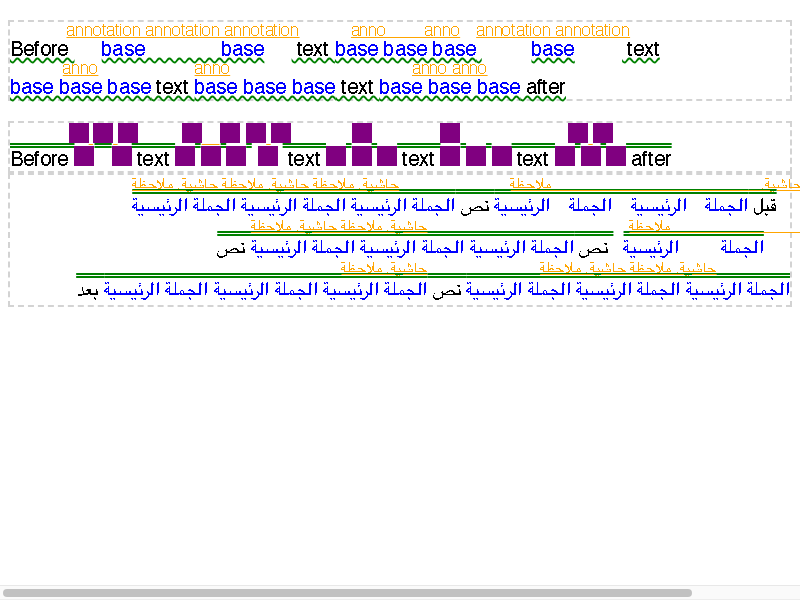
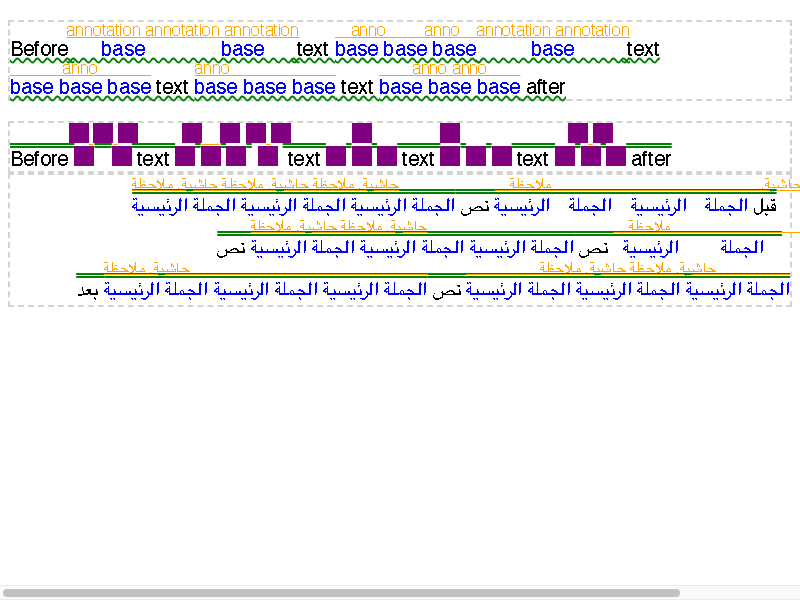
RubyLB: Apply ruby's insets to ShapeResult or margin if possible
We assumed kRubyLinePlaceholder items were always placed at both edges.
But it is not correct if bidi reorder is applied.  So we'd like to
apply insets to ShapeResults or atomic inline margins, and apply to
kRubyLinePlaceholder only for an empty line.

Note: Insets don't work correctly with bidi reorder yet.
ApplyLeadingAndTrailingExpansion() should work with LogicalLineItems
after bidi reorder.

Bug: 40896258, 324111880
Auto-Submit: Kent Tamura <tkent@chromium.org>
Commit-Queue: Koji Ishii <kojii@chromium.org>
Cr-Commit-Position: refs/heads/main@{#1292400}

diff --git a/renderer/core/layout/inline/justification_utils.cc b/renderer/core/layout/inline/justification_utils.cc
@@ -187,7 +187,13 @@ class ExpandableItemsFinder {
  public:
   void Find(InlineItemResults& results) {
     for (auto& item_result : results) {
-      if (item_result.item->Type() == InlineItem::kRubyLinePlaceholder) {
+      if (item_result.shape_result ||
+          item_result.item->Type() == InlineItem::kAtomicInline) {
+        last_item_ = &item_result;
+        if (!first_item_) {
+          first_item_ = &item_result;
+        }
+      } else if (item_result.item->Type() == InlineItem::kRubyLinePlaceholder) {
         last_placeholder_item_ = &item_result;
         if (!first_placeholder_item_) {
           first_placeholder_item_ = &item_result;
@@ -203,10 +209,18 @@ class ExpandableItemsFinder {
     }
   }
 
-  InlineItemResult* FirstExpandable() const { return first_placeholder_item_; }
-  InlineItemResult* LastExpandable() const { return last_placeholder_item_; }
+  InlineItemResult* FirstExpandable() const {
+    return first_item_ ? first_item_ : first_placeholder_item_;
+  }
+  InlineItemResult* LastExpandable() const {
+    return last_item_ ? last_item_ : last_placeholder_item_;
+  }
 
  private:
+  // The first or the last InlineItemResult which has a ShapeResult or is an
+  // atomic-inline.
+  InlineItemResult* first_item_ = nullptr;
+  InlineItemResult* last_item_ = nullptr;
   // The first or the last kRubyLinePlaceholder.
   InlineItemResult* first_placeholder_item_ = nullptr;
   InlineItemResult* last_placeholder_item_ = nullptr;
@@ -215,9 +229,23 @@ class ExpandableItemsFinder {
 void ApplyLeadingAndTrailingExpansion(LayoutUnit leading_expansion,
                                       LayoutUnit trailing_expansion,
                                       InlineItemResult& item_result) {
-  DCHECK_EQ(item_result.item->Type(), InlineItem::kRubyLinePlaceholder);
-  item_result.inline_size += leading_expansion + trailing_expansion;
-  item_result.spacing_before += leading_expansion;
+  if (item_result.shape_result) {
+    ShapeResult* shape_result = item_result.shape_result->CreateShapeResult();
+    shape_result->ApplyLeadingExpansion(leading_expansion);
+    shape_result->ApplyTrailingExpansion(trailing_expansion);
+    item_result.inline_size = shape_result->SnappedWidth();
+    if (UNLIKELY(item_result.is_hyphenated)) {
+      item_result.inline_size += item_result.hyphen.InlineSize();
+    }
+    item_result.shape_result = ShapeResultView::Create(shape_result);
+  } else if (item_result.item->Type() == InlineItem::kAtomicInline) {
+    item_result.inline_size += leading_expansion + trailing_expansion;
+    item_result.spacing_before += leading_expansion;
+  } else {
+    DCHECK_EQ(item_result.item->Type(), InlineItem::kRubyLinePlaceholder);
+    item_result.inline_size += leading_expansion + trailing_expansion;
+    item_result.spacing_before += leading_expansion;
+  }
 }
 
 std::optional<LayoutUnit> ApplyJustificationInternal(

diff --git a/renderer/platform/fonts/shaping/shape_result.cc b/renderer/platform/fonts/shaping/shape_result.cc
@@ -1013,6 +1013,64 @@ ShapeResult* ShapeResult::ApplySpacingToCopy(
   return result;
 }
 
+void ShapeResult::ApplyLeadingExpansion(float expansion) {
+  DCHECK(RuntimeEnabledFeatures::RubyLineBreakableEnabled());
+  if (expansion <= 0) {
+    return;
+  }
+  for (auto& run : runs_) {
+    if (!run) {
+      continue;
+    }
+    for (wtf_size_t i = 0; i < run->glyph_data_.size(); i++) {
+      HarfBuzzRunGlyphData& glyph_data = run->glyph_data_[i];
+
+      // Skip if it's not a grapheme cluster boundary.
+      if (i + 1 < run->glyph_data_.size() &&
+          glyph_data.character_index ==
+              run->glyph_data_[i + 1].character_index) {
+        continue;
+      }
+
+      glyph_data.advance += expansion;
+      run->width_ += expansion;
+      width_ += expansion;
+
+      if (run->IsHorizontal()) {
+        run->glyph_data_.AddOffsetWidthAt(i, expansion);
+      } else {
+        run->glyph_data_.AddOffsetHeightAt(i, expansion);
+        has_vertical_offsets_ = true;
+      }
+      return;
+    }
+  }
+  // No glyphs.
+  NOTREACHED();
+}
+
+void ShapeResult::ApplyTrailingExpansion(float expansion) {
+  DCHECK(RuntimeEnabledFeatures::RubyLineBreakableEnabled());
+  if (expansion <= 0) {
+    return;
+  }
+  for (auto& run : base::Reversed(runs_)) {
+    if (!run) {
+      continue;
+    }
+    if (run->glyph_data_.IsEmpty()) {
+      continue;
+    }
+    HarfBuzzRunGlyphData& glyph_data = run->glyph_data_.back();
+    glyph_data.advance += expansion;
+    run->width_ += expansion;
+    width_ += expansion;
+    return;
+  }
+  // No glyphs.
+  NOTREACHED();
+}
+
 bool ShapeResult::HasAutoSpacingAfter(unsigned offset) const {
   if (!character_position_.empty() && offset >= StartIndex() &&
       offset < EndIndex()) {

diff --git a/renderer/platform/fonts/shaping/shape_result.h b/renderer/platform/fonts/shaping/shape_result.h
@@ -294,6 +294,10 @@ class PLATFORM_EXPORT ShapeResult : public GarbageCollected<ShapeResult> {
   void ApplySpacing(ShapeResultSpacing<String>&, int text_start_offset = 0);
   ShapeResult* ApplySpacingToCopy(ShapeResultSpacing<TextRun>&,
                                   const TextRun&) const;
+  // Add `expansion` space before the first glyph.
+  void ApplyLeadingExpansion(float expansion);
+  // Add `expansion` space after the last glyph.
+  void ApplyTrailingExpansion(float expansion);
 
   // Adds spacing between ideograph character and non-ideograph character for
   // the property of text-autospace.

diff --git a/renderer/core/layout/inline/logical_line_builder.cc b/renderer/core/layout/inline/logical_line_builder.cc
@@ -341,7 +341,8 @@ InlineBoxState* LogicalLineBuilder::PlaceAtomicInline(
       constraint_space_, item, *item_result, baseline_type_, *line_box);
 
   if (LIKELY(!IsA<LayoutTextCombine>(layout_object))) {
-    PlaceLayoutResult(item_result, line_box, box, box->margin_inline_start);
+    PlaceLayoutResult(item_result, line_box, box,
+                      box->margin_inline_start + item_result->spacing_before);
   } else {
     // The metrics should be as text instead of atomic inline box.
     const auto& style = layout_object->Parent()->StyleRef();
